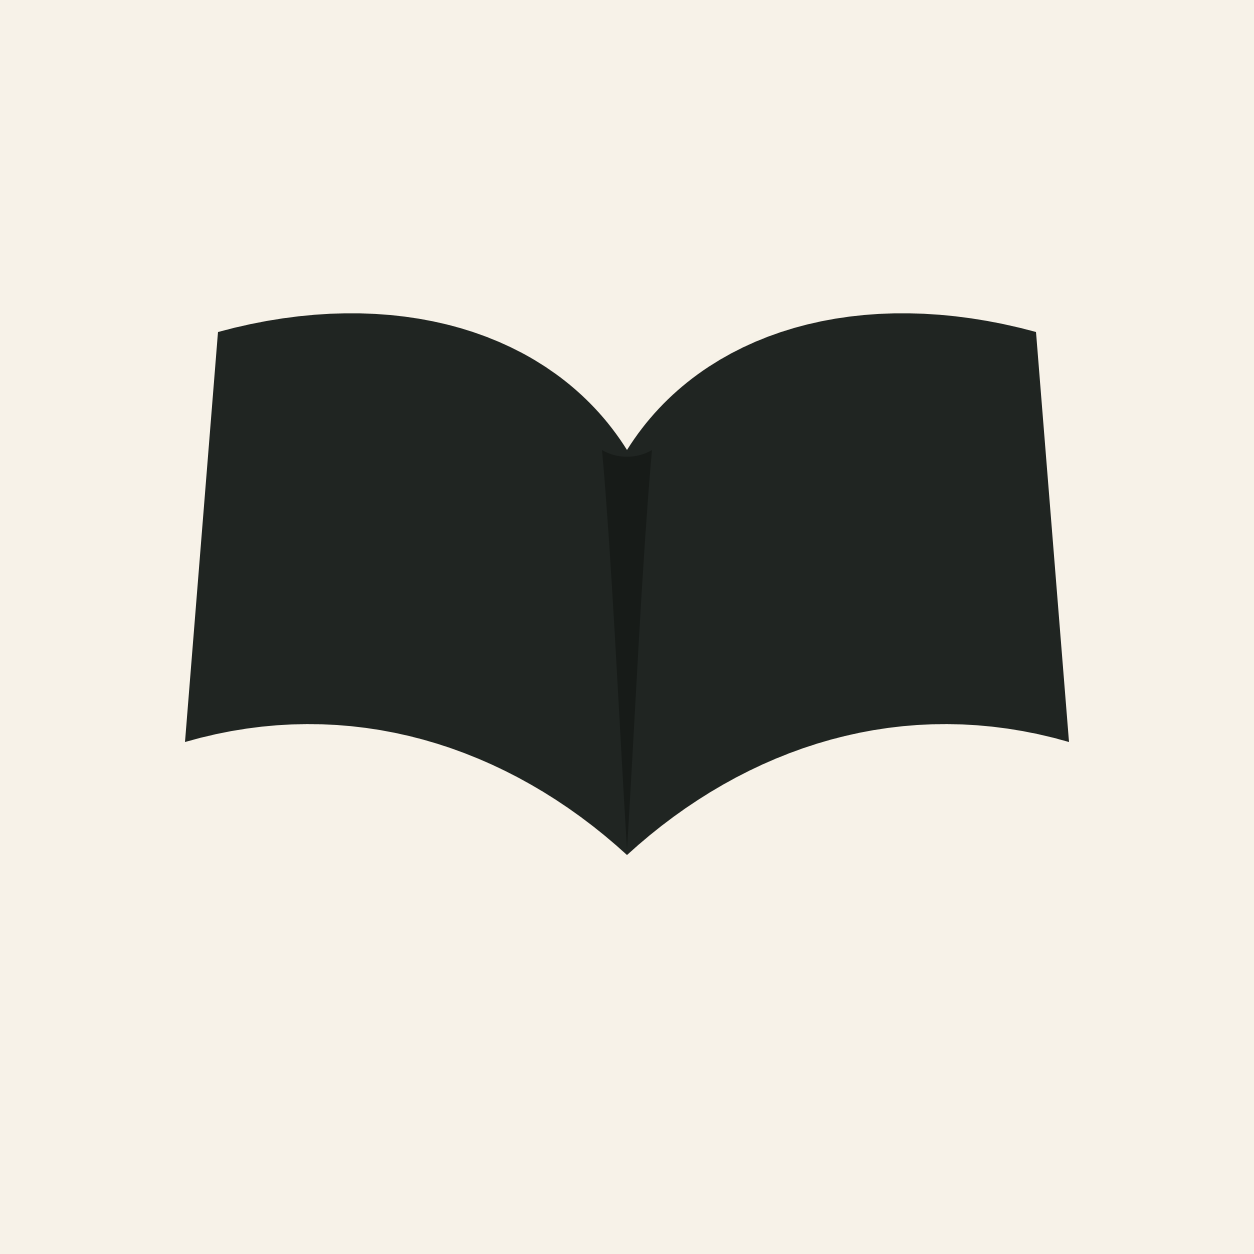
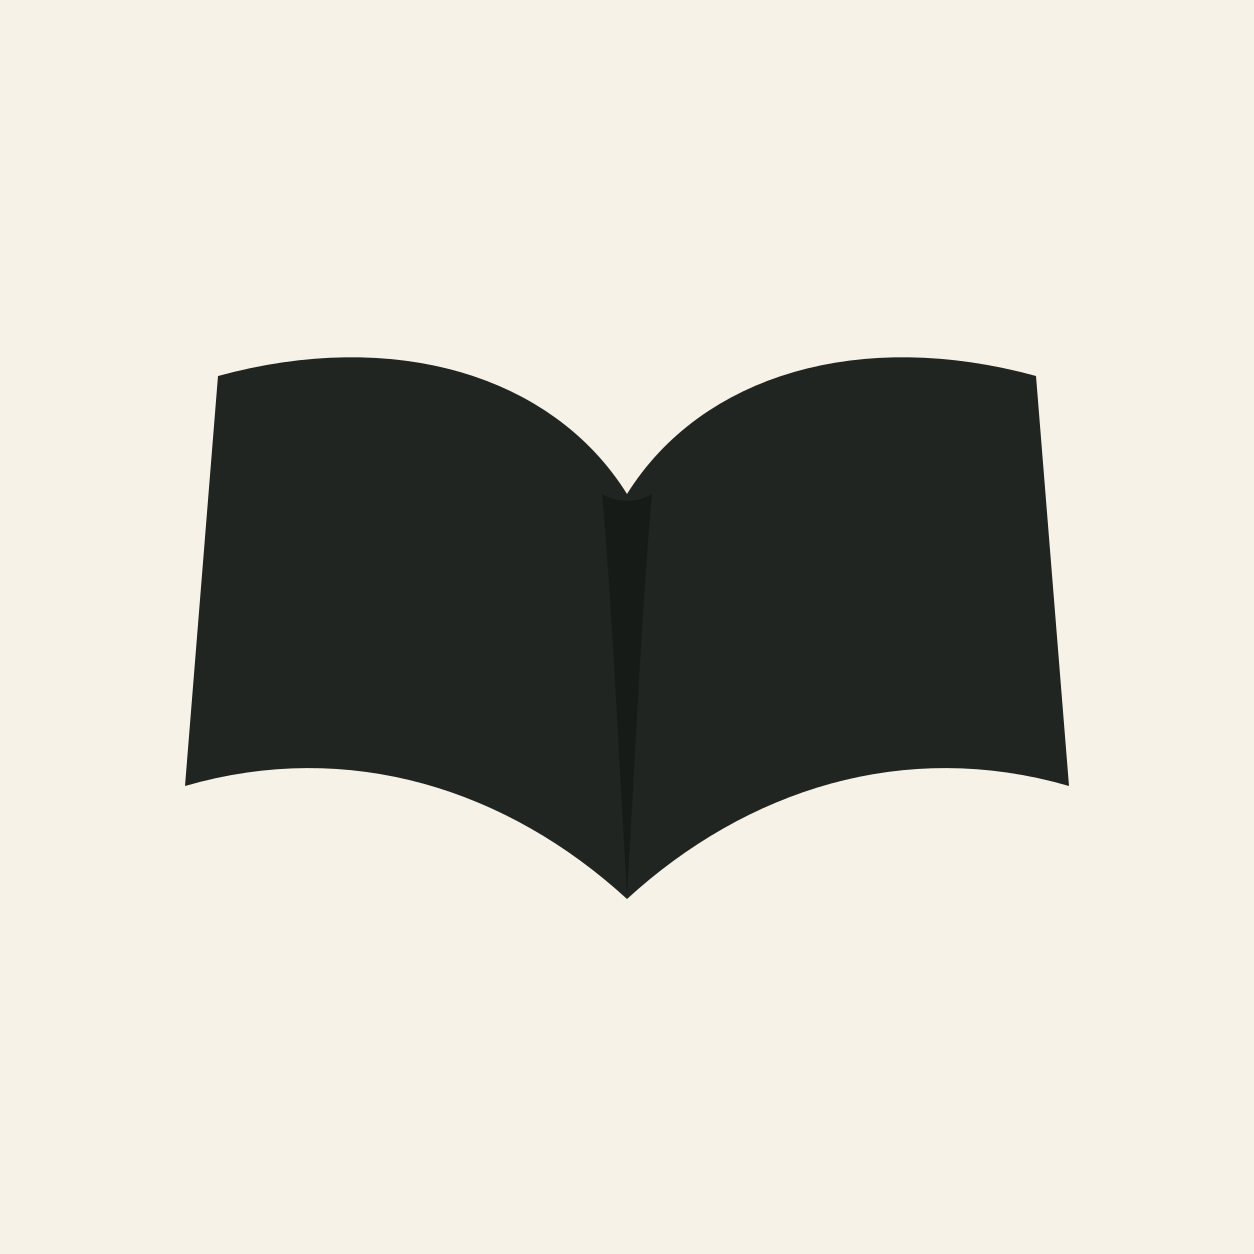
test(brand): assert splash ink colors and center the mark

Changed region(s): [[0.1555, 0.2488, 0.8397, 0.4976], [0.1244, 0.4665, 0.8708, 0.7153]]

diff --git a/tests/brand-assets.test.ts b/tests/brand-assets.test.ts
@@ -16,6 +16,8 @@ const sharp = requireFromSrc('sharp') as typeof import('sharp');
 const canvasSize = 1254;
 const paper = [247, 242, 232] as const;
 const ink = [32, 37, 34] as const;
+// #171B18 — the narrow darker center-spine fill declared by the brief.
+const spine = [23, 27, 24] as const;
 const legacyWhaleSha256 =
[1 lines of base64/hex data omitted]
 
@@ -79,6 +81,26 @@ const alphaBounds = (
         height: bottom - top + 1,
         visiblePixels,
     };
+};
+
+const countExactColorPixels = (
+    data: Buffer,
+    channels: number,
+    target: readonly number[],
+) => {
+    let count = 0;
+
+    for (let offset = 0; offset < data.length; offset += channels) {
+        if (
+            data[offset] === target[0] &&
+            data[offset + 1] === target[1] &&
+            data[offset + 2] === target[2]
+        ) {
+            count += 1;
+        }
+    }
+
+    return count;
 };
 
 const assertRequiredFileExists = async (filePath: string) => {
@@ -257,6 +279,65 @@ test('splash and adaptive foreground marks have meaningful transparent alpha bou
             `${name} does not contain a meaningful visible mark`,
         );
     }
+});
+
+test('splash marks use the exact ink and warm paper colors', async () => {
+    // The generator recolors the canonical SVG with a silent string replace,
+    // so a changed fill spelling would silently emit an ink book for the dark
+    // splash (or a paper book for the light one). Pin the rendered colors.
+    const light = await readRawPixels(assetPath('splash-icon.png'));
+    const lightInkPixels = countExactColorPixels(
+        light.data,
+        light.info.channels,
+        ink,
+    );
+    const lightPaperPixels = countExactColorPixels(
+        light.data,
+        light.info.channels,
+        paper,
+    );
+
+    assert.ok(
+        lightInkPixels >= 100_000,
+        `splash-icon.png has only ${lightInkPixels} exact ink pixels`,
+    );
+    assert.equal(
+        lightPaperPixels,
+        0,
+        'splash-icon.png contains warm paper pixels instead of an ink mark',
+    );
+
+    const dark = await readRawPixels(assetPath('splash-icon-dark.png'));
+    const darkPaperPixels = countExactColorPixels(
+        dark.data,
+        dark.info.channels,
+        paper,
+    );
+    const darkInkPixels = countExactColorPixels(
+        dark.data,
+        dark.info.channels,
+        ink,
+    );
+    const darkSpinePixels = countExactColorPixels(
+        dark.data,
+        dark.info.channels,
+        spine,
+    );
+
+    assert.ok(
+        darkPaperPixels >= 100_000,
+        `splash-icon-dark.png has only ${darkPaperPixels} exact warm paper pixels`,
+    );
+    assert.equal(
+        darkInkPixels,
+        0,
+        'splash-icon-dark.png contains ink pixels instead of a warm paper mark',
+    );
+    assert.equal(
+        darkSpinePixels,
+        0,
+        'splash-icon-dark.png retains the darker spine fill instead of warm paper',
+    );
 });
 
 test('Android monochrome asset is a non-empty alpha silhouette on transparency', async () => {
